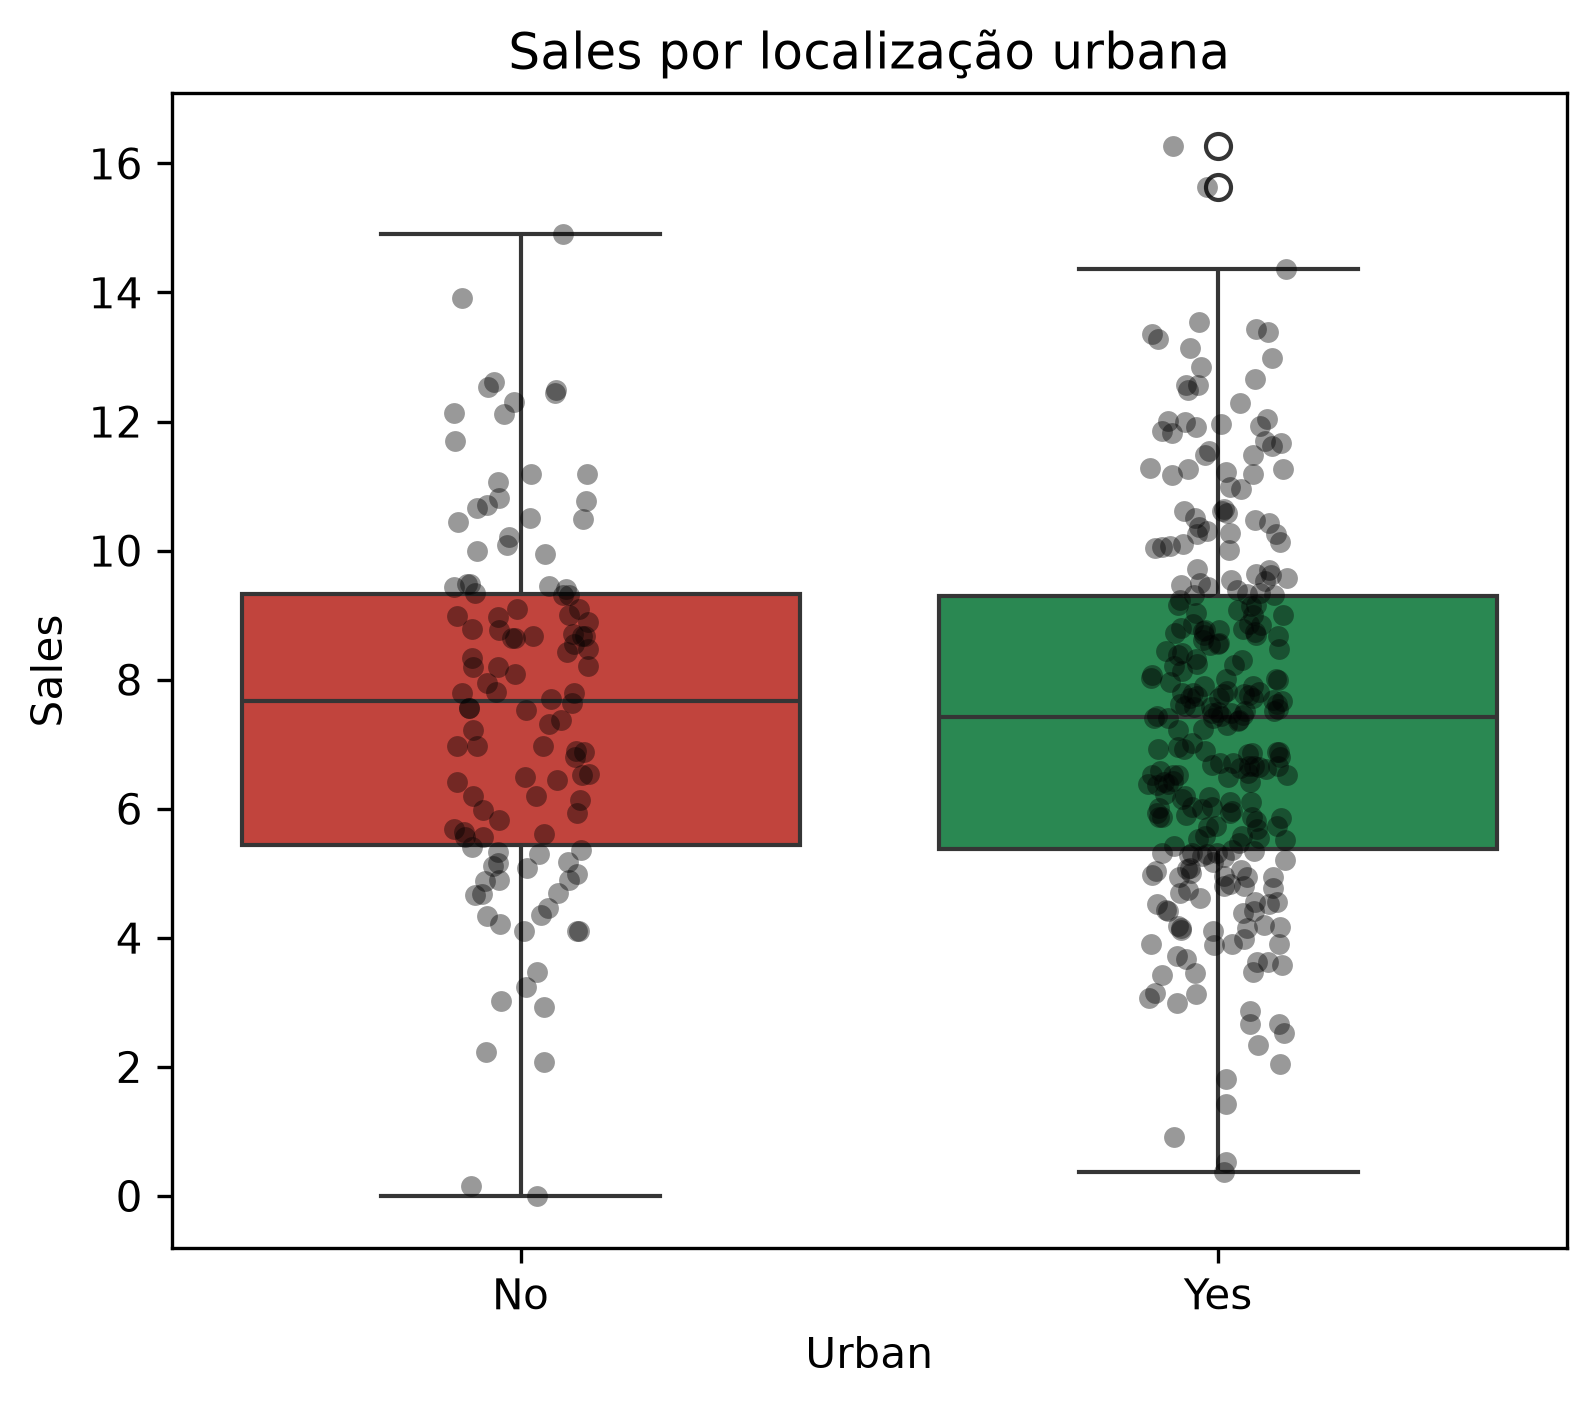
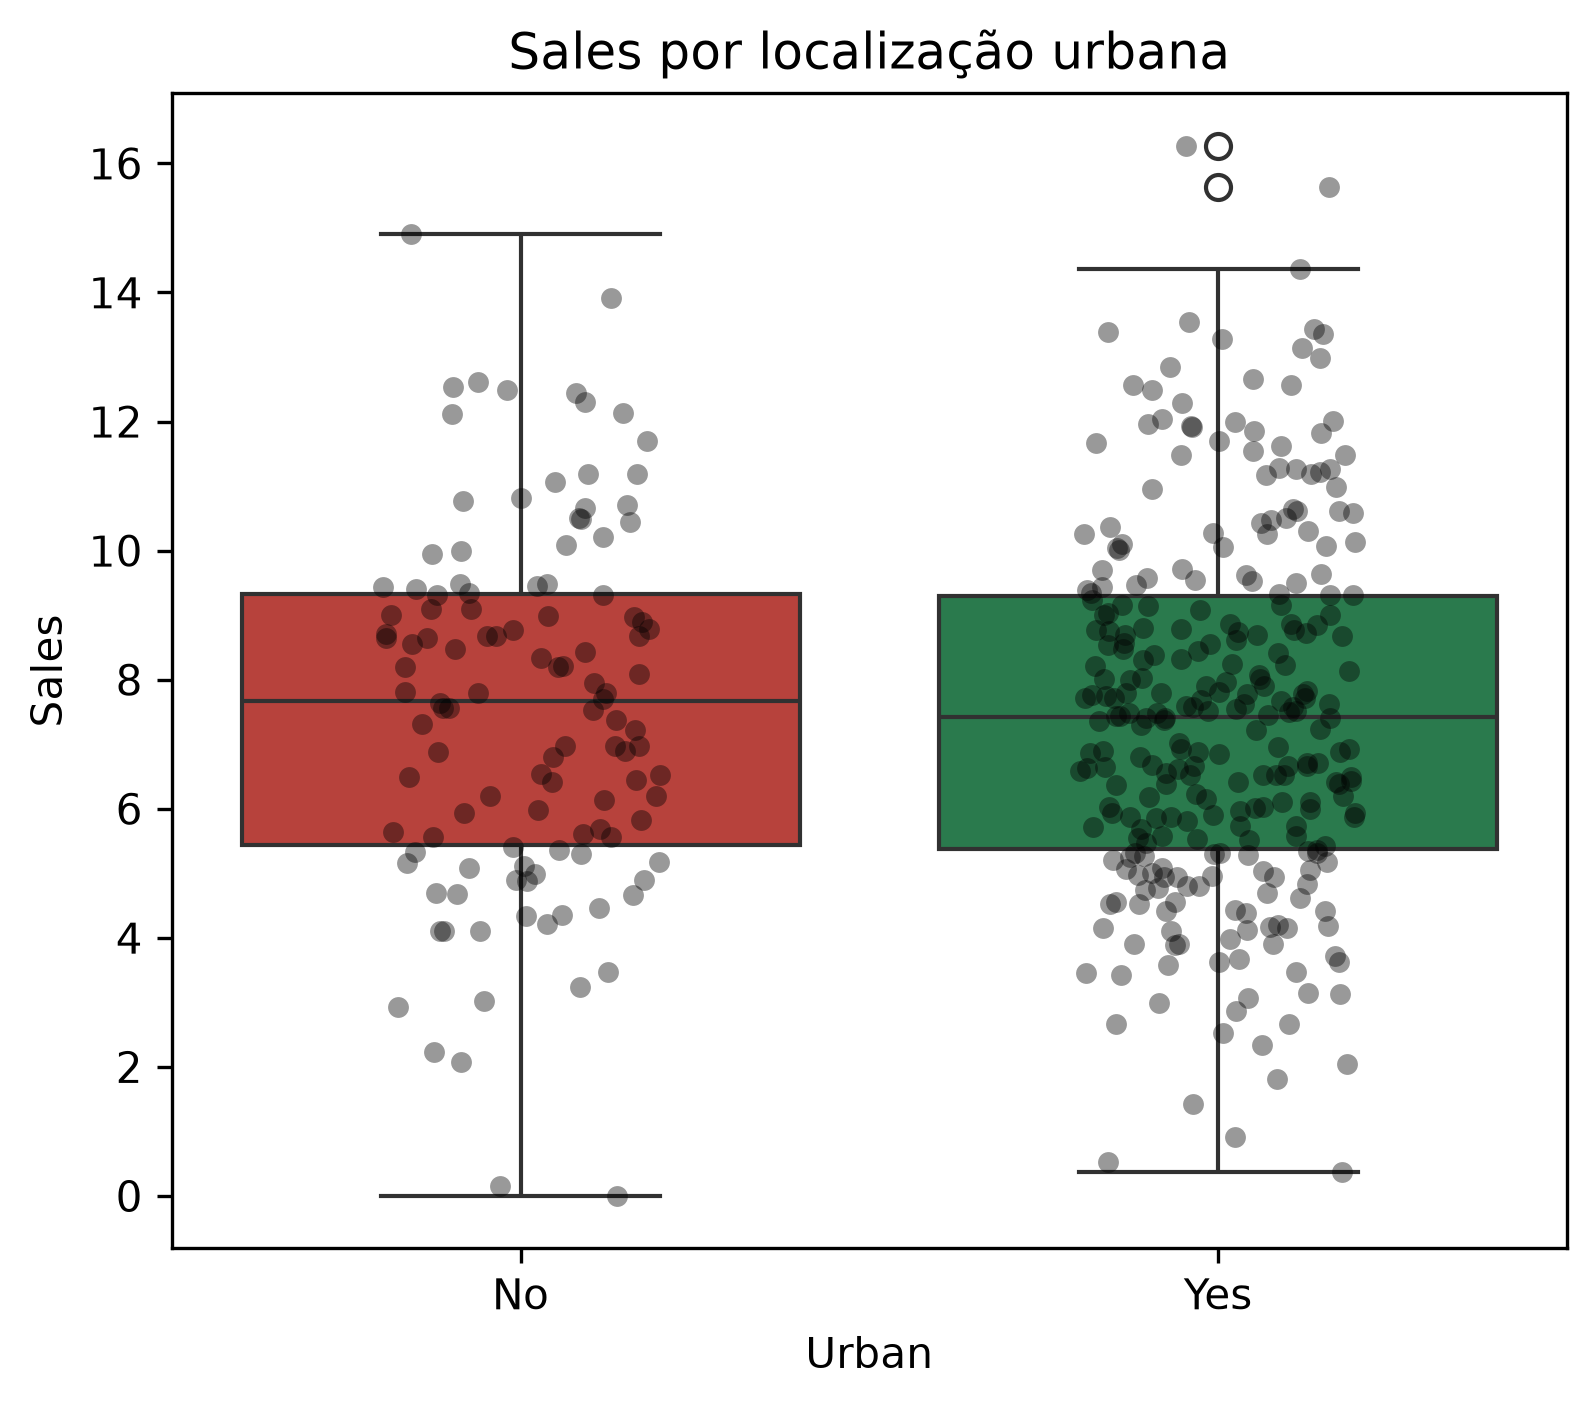
Graficos finalizado

diff --git a/Analise/src/graficos.py b/Analise/src/graficos.py
@@ -16,30 +16,29 @@ dados = dt.extract()
 
 plt.figure(figsize=(6, 5))
 
-ordem = ["Bad", "Medium", "Good"]
 cores = {
-    "Bad": "#d73027",      # vermelho
-    "Medium": "#fee08b",   # amarelo
-    "Good": "#1a9850"      # verde
+    "Bad": "#cb3028",      # vermelho
+    "Medium": "#f7cd5c",   # amarelo
+    "Good": "#1d874b"      # verde
 }
 
 
 sns.boxplot(
     data=dados,
-    x="Urban",
+    x="ShelveLoc",
     y="Sales",
-    palette=cores,
-    legend=False
+    order=["Bad", "Medium", "Good"],
+    palette=cores
 )
 
 sns.stripplot(
     data=dados,
     x="ShelveLoc",
     y="Sales",
-    order=ordem,
+    order=["Bad", "Medium", "Good"],
     color="black",
     alpha=0.4,
-    jitter=True
+    jitter=0.2
 )
 
 plt.title("Distribuição das vendas por qualidade da prateleira")
@@ -58,15 +57,18 @@ plt.close()
 plt.figure(figsize=(6,5))
 
 cores = {
-    "No": "#d73027",      # vermelho
-    "Yes": "#1a9850"      # verde
+    "No": "#cb3028",      # vermelho
+    "Yes": "#1d874b"      # verde
 }
 
 sns.boxplot(
     data=dados,
     x="Urban",
     y="Sales",
-    palette=cores
+    hue="Urban",
+    palette=cores,
+    dodge=False,
+    legend=False
 )
 
 sns.stripplot(
@@ -74,7 +76,8 @@ sns.stripplot(
     x="Urban",
     y="Sales",
     color="black",
-    alpha=0.4
+    alpha=0.4,
+    jitter=0.2
 )
 
 plt.title("Sales por localização urbana")
@@ -89,18 +92,29 @@ plt.close()
 
 plt.figure(figsize=(6,5))
 
+cores = {
+    "No": "#cb3028",      # vermelho
+    "Yes": "#1d874b"      # verde
+}
+
 sns.boxplot(
     data=dados,
     x="US",
-    y="Sales"
+    y="Sales",
+    hue="US",
+    palette=cores,
+    dodge=False,
+    legend=False
 )
 
 sns.stripplot(
     data=dados,
     x="US",
     y="Sales",
+    order= ["No", "Yes"],
     color="black",
-    alpha=0.4
+    alpha=0.4,
+    jitter=0.2
 )
 
 plt.title("Sales por país")
@@ -112,49 +126,15 @@ plt.savefig(
 )
 
 plt.close()
-"""
+
 #Metricas numericas
 
-dados = dt.extract()
-numericas = dt.variaveisNumericas()
-dados_longos = dt.dadosLongos(dados)
-g = sns.catplot(
-    data=dados_longos,
-    x="Sales",
-    y="Valor",
-    col="Variavel",
-    kind="box",
-    col_wrap=2,
-    sharey=False,
-    height=4,
-    color="lightgray"
-)
-
-for ax, variavel in zip(g.axes.flat, numericas):
-
-    sns.stripplot(
-        data=dados_longos[dados_longos["Variavel"] == variavel],
-        x="Sales",
-        y="Valor",
-        color="black",
-        alpha=0.5,
-        size=3,
-        jitter=0.2,
-        ax=ax
-    )
-
-    ax.set_xlabel("")
-    ax.set_ylabel("Valor")
-
-colunas = dt.colunas()
+plt.figure(figsize=(6,5))
 
 g = sns.pairplot(
-    dados[colunas],
-    hue="Sales",
-    diag_kind="kde",
-    corner=False,
-    plot_kws={"alpha": 0.6, "s": 25},
-    diag_kws={"fill": True}
+    dados[dt.colunas()],
+    corner=True,
+    diag_kind="kde"
 )
 
 g.figure.suptitle(
@@ -170,14 +150,45 @@ g.figure.savefig(
 
 plt.close(g.figure)
 
+plt.figure(figsize=(6,5))
 
-# Seleciona apenas as variáveis numéricas
+sns.boxplot(
+    data=dados,
+    x="ShelveLoc",
+    y="Sales",
+    order=["Bad","Medium","Good"],
+    showmeans=True,
+    meanprops={
+        "marker":"D",
+        "markerfacecolor":"red",
+        "markeredgecolor":"black"
+    }
+)
+
+plt.figure(figsize=(6,5))
+
+sns.pointplot(
+    data=dados,
+    x="ShelveLoc",
+    y="Sales",
+    order=["Bad","Medium","Good"],
+    errorbar=("ci",95)
+)
+
+plt.title("Média de Sales por qualidade da prateleira")
+
+plt.savefig(
+    PASTA_GRAFICOS / "media_sales_shelveloc.png",
+    dpi=300,
+    bbox_inches="tight"
+)
+
+plt.close()
+
 numericas = dados.select_dtypes(include="number").drop(columns="id")
 
-# Matriz de correlação de Pearson
 matriz_cor = numericas.corr()
 
-# Arredonda para 3 casas decimais
 print(matriz_cor.round(3))
 
 matriz_cor.round(3).to_csv(
@@ -207,4 +218,41 @@ plt.savefig(
 )
 
 plt.close()
-"""
+
+dados_corr = dt.dados_convertidos_int()
+
+numericas = dados_corr.select_dtypes(include="number").drop(columns="id")
+
+matriz_cor = numericas.corr(method="spearman")
+
+print(matriz_cor.round(3))
+
+matriz_cor.round(3).to_csv(
+    PASTA_RESULTADOS / "matriz_correlacao.csv"
+)
+
+plt.figure(figsize=(12, 10))
+
+sns.heatmap(
+    matriz_cor,
+    annot=True,
+    fmt=".2f",
+    cmap="coolwarm",
+    center=0,
+    vmin=-1,
+    vmax=1,
+    linewidths=0.5,
+    square=True
+)
+
+plt.title("Matriz de Correlação (incluindo variáveis categóricas codificadas)")
+
+plt.tight_layout()
+
+plt.savefig(
+    PASTA_GRAFICOS / "matriz_correlacao_total.png",
+    dpi=300,
+    bbox_inches="tight"
+)
+
+plt.close()

diff --git a/Analise/src/data.py b/Analise/src/data.py
@@ -15,6 +15,16 @@ def extract():
     categorias = ["ShelveLoc", "Urban", "US"]
     dados[categorias] = dados[categorias].astype("category")
 
+    categorias = ["ShelveLoc", "Urban", "US"]
+
+    for coluna in categorias:
+        dados[coluna] = (
+            dados[coluna]
+            .astype(str)
+            .str.strip()
+            .astype("category")
+        )
+
     return dados
 
 def colunas():
@@ -127,11 +137,24 @@ def variaveisNumericas():
 ]
     return numericas
 
-def dadosLongos(dados):
-    dados_longos = dados.melt(
-    id_vars="Sales",
-    value_vars=variaveisNumericas(),
-    var_name="Variavel",
-    value_name="Valor"
-)
-    return dados_longos
+def dados_convertidos_int():
+    dados_int = extract()
+    dados_int["ShelveLoc"] = (
+        dados_int["ShelveLoc"]
+        .map({"Bad": 1, "Medium": 2, "Good": 3})
+        .astype(int)
+    )
+
+    dados_int["Urban"] = (
+        dados_int["Urban"]
+        .map({"No": 0, "Yes": 1})
+        .astype(int)
+    )
+
+    dados_int["US"] = (
+        dados_int["US"]
+        .map({"No": 0, "Yes": 1})
+        .astype(int)
+    )
+
+    return dados_int